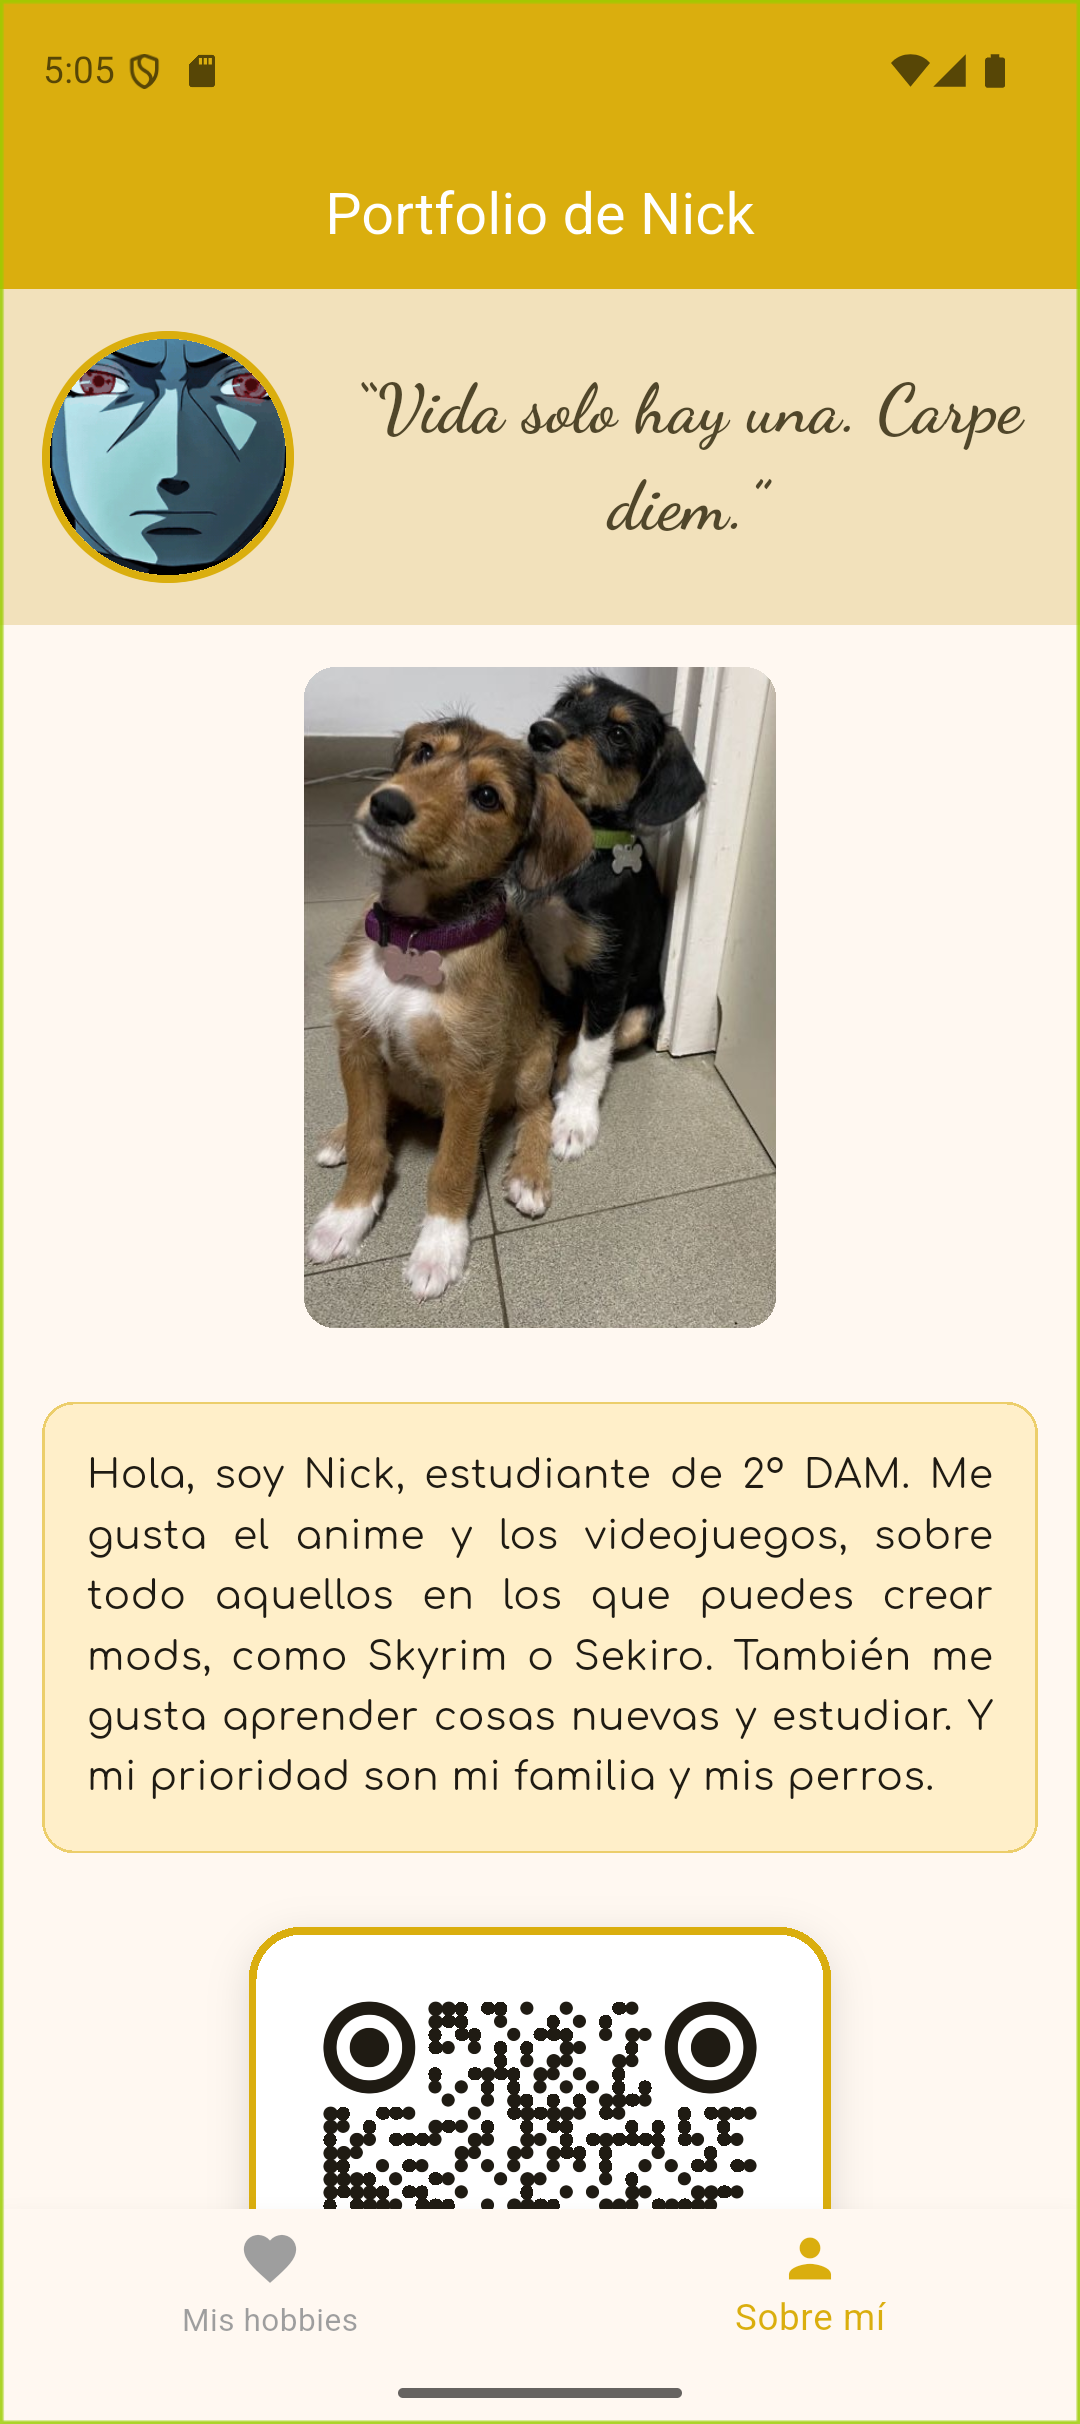
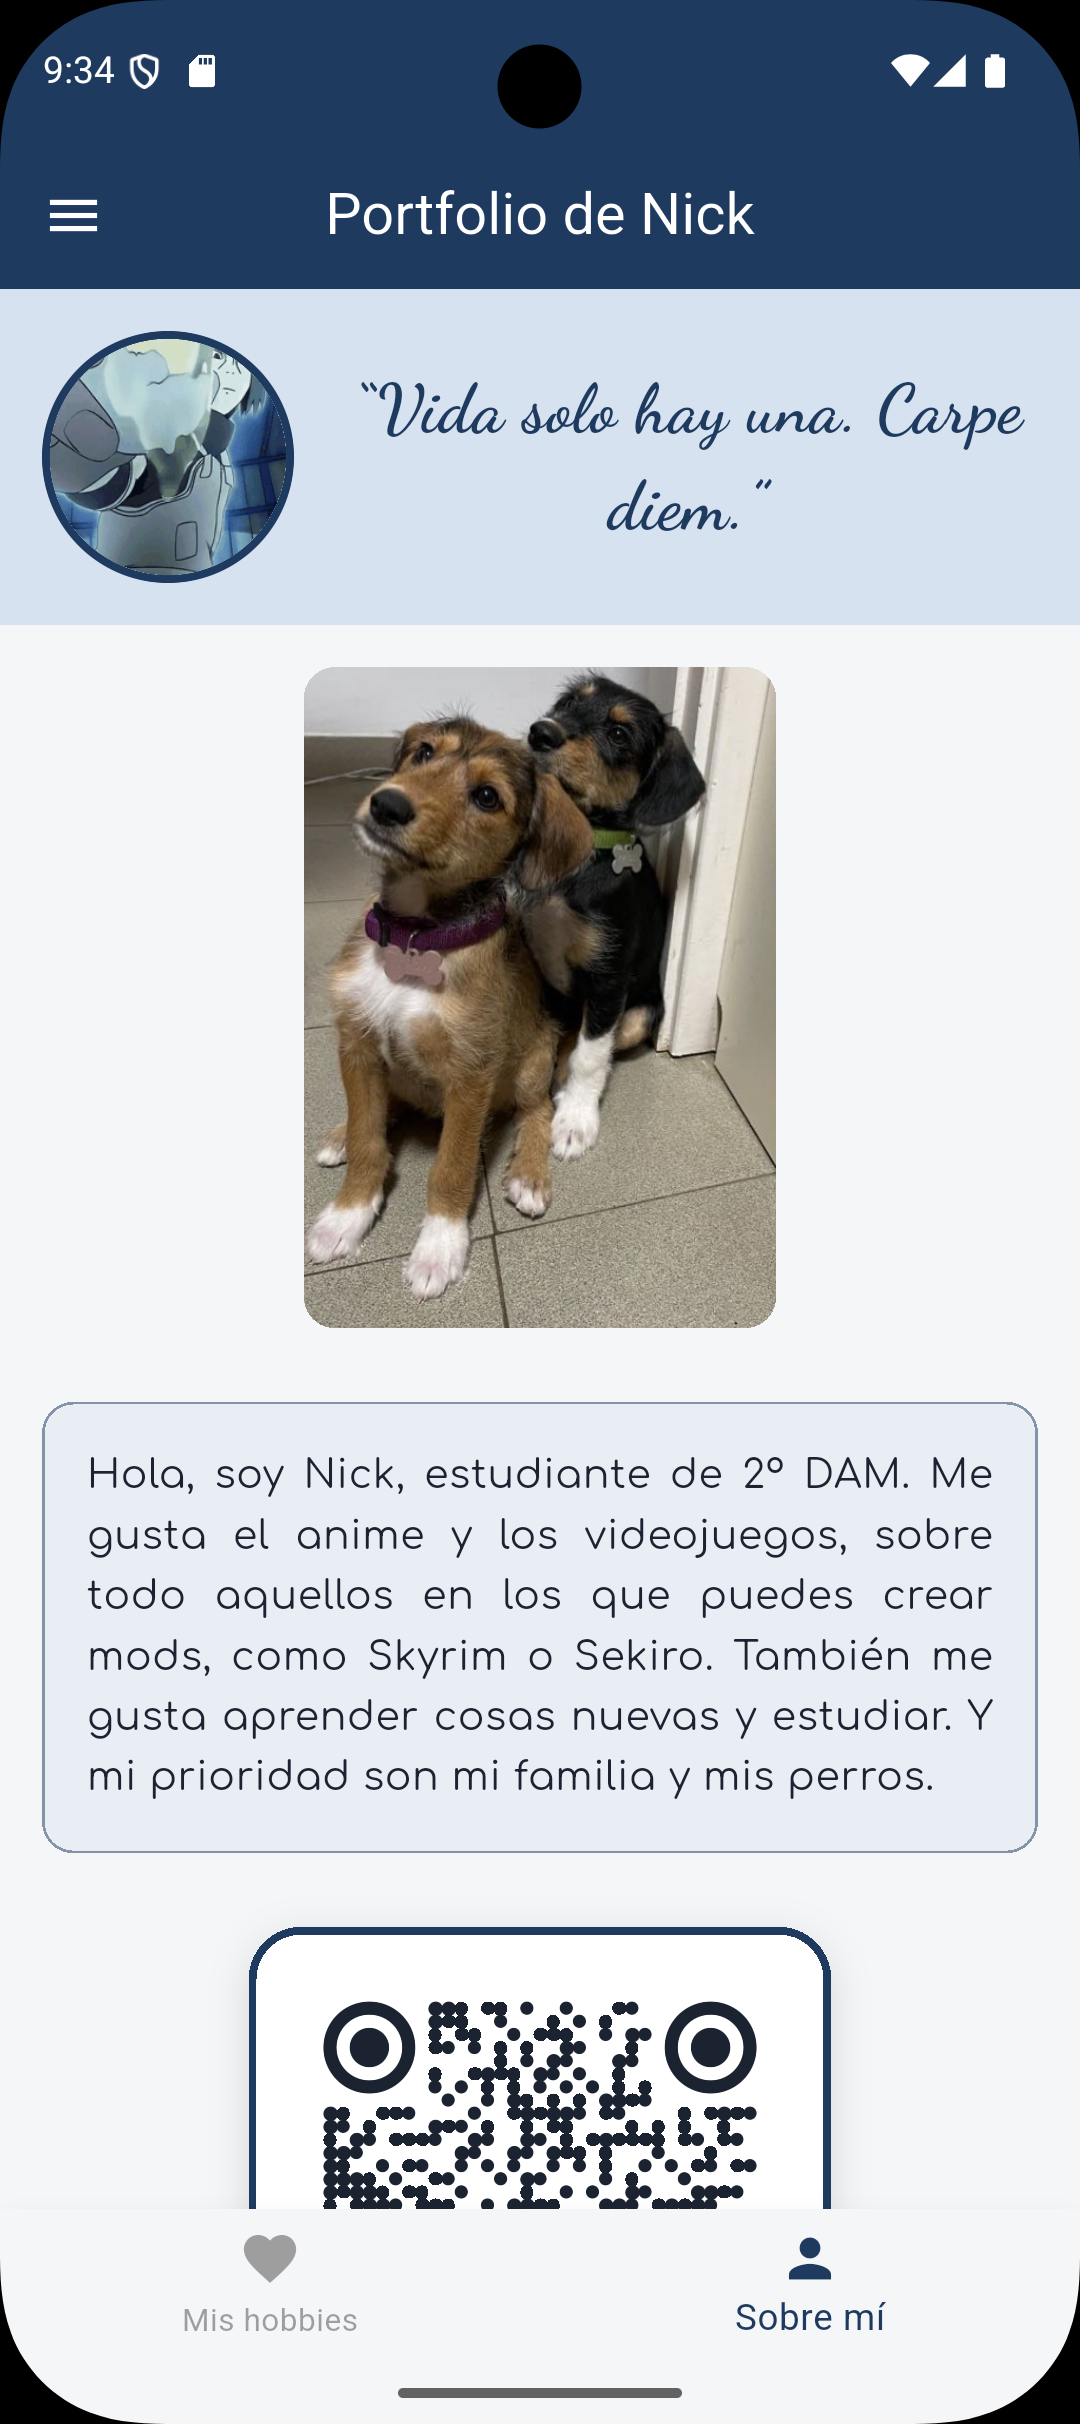
docs(readme): add app screenshots and project description
- Replace the old portfolio screenshots with the new ones
- Describe the routes, project structure and packages
- Explain the Git branch workflow

diff --git a/README.md b/README.md
@@ -1,25 +1,72 @@
+# Easy Check
+
+App de fichaje para los trabajadores de los hoteles de Canarias, desarrollada con Flutter
+en el módulo de Programación Multimedia y Dispositivos Móviles (2.º DAM).
+
+Este repositorio es el proyecto **PGL-P2-MyPortfolio**: la app se irá construyendo tarea a
+tarea a partir del diseño realizado anteriormente.
+
+## Tarea 1: Navegación
+
+- Navegación con **go_router** mediante un **Drawer** (menú lateral).
+- **Pantalla de bienvenida** con imagen de fondo, mensaje y botón para entrar.
+- **Portfolio** de la tarea anterior, adaptado a la paleta de colores de Easy Check.
+
+| Ruta | Pantalla |
+| --- | --- |
+| `/` | Bienvenida |
+| `/portfolio` | Portfolio: *Mis hobbies* y *Sobre mí* (se cambia con la barra inferior) |
+
 ## Capturas
 
-### Mis hobbies
-Mis aficiones aparecen en una cuadrícula ordenada **de mayor a menor prioridad**: las primeras
-tarjetas son las que más me importan y, conforme bajas, aparecen las demás.
+| Bienvenida | Menú lateral |
+| :---: | :---: |
+| <img src="screenshots/welcome.png" width="250"> | <img src="screenshots/drawer.png" width="250"> |
 
-![Pantalla de hobbies](screenshots/hobbies.png)
+| Mis hobbies | Sobre mí |
+| :---: | :---: |
+| <img src="screenshots/hobbies.png" width="250"> | <img src="screenshots/about_me.png" width="250"> |
 
-### Mis hobbies (deslizando)
-La cuadrícula se puede deslizar para ver el resto de hobbies. La cabecera con mi foto y la barra
-inferior se quedan fijas.
+## Estructura del proyecto
 
-![Pantalla de hobbies deslizada para ver el resto de la cuadrícula](screenshots/hobbies_slide.png)
+```
+lib/
+├── main.dart                        # Arranque de la app (tema y router)
+├── config/
+│   ├── constants/app_strings.dart   # Textos, imágenes y enlaces
+│   ├── router/
+│   │   ├── app_router.dart          # Configuración de go_router
+│   │   └── app_routes.dart          # Rutas de la app
+│   └── theme/
+│       ├── app_colors.dart          # Paleta de colores
+│       └── app_theme.dart           # Tema de la app
+├── models/
+│   └── drawer_item.dart             # Opción del menú lateral
+├── screens/
+│   ├── portfolio/portfolio_screen.dart
+│   └── welcome/welcome_screen.dart
+└── widgets/
+    ├── app_drawer.dart              # Menú lateral común
+    └── portfolio/                   # Widgets del portfolio
+```
 
-### Sobre mí
-Una breve presentación sobre mí junto a una foto de mis perros: la perrita marrón es **Nala** y el
-negro es **Kaiser**.
+## Paquetes utilizados
 
-![Pantalla "Sobre mí" con la foto de Nala y Kaiser y la presentación](screenshots/about_me.png)
+- [go_router](https://pub.dev/packages/go_router): navegación entre pantallas.
+- [material_symbols_icons](https://pub.dev/packages/material_symbols_icons): iconos de Material Symbols.
+- [google_fonts](https://pub.dev/packages/google_fonts): tipografías del portfolio.
+- [qr_flutter](https://pub.dev/packages/qr_flutter): código QR de la sección «Sobre mí».
 
-### Sobre mí (deslizando)
-Al deslizar aparece un código QR que lleva a la tarea en Moodle y un botón para copiar el enlace.
-Al pulsarlo, se muestra un aviso confirmando que se ha copiado.
+## Flujo de trabajo con Git
 
-![Pantalla "Sobre mí" deslizada para ver el QR y el botón de copiar enlace](screenshots/about_me_slide.png)
+- `main`: producto final. Solo recibe cambios desde `develop`.
+- `develop`: rama de desarrollo, creada a partir de `main`.
+- `P2-Tarea1-Navegación`: rama de esta tarea, creada a partir de `develop`.
+- Los commits siguen el convenio **Karma** (`feat`, `fix`, `docs`, `style`, `refactor`…).
+
+## Cómo ejecutarlo
+
+```bash
+flutter pub get
+flutter run
+```
